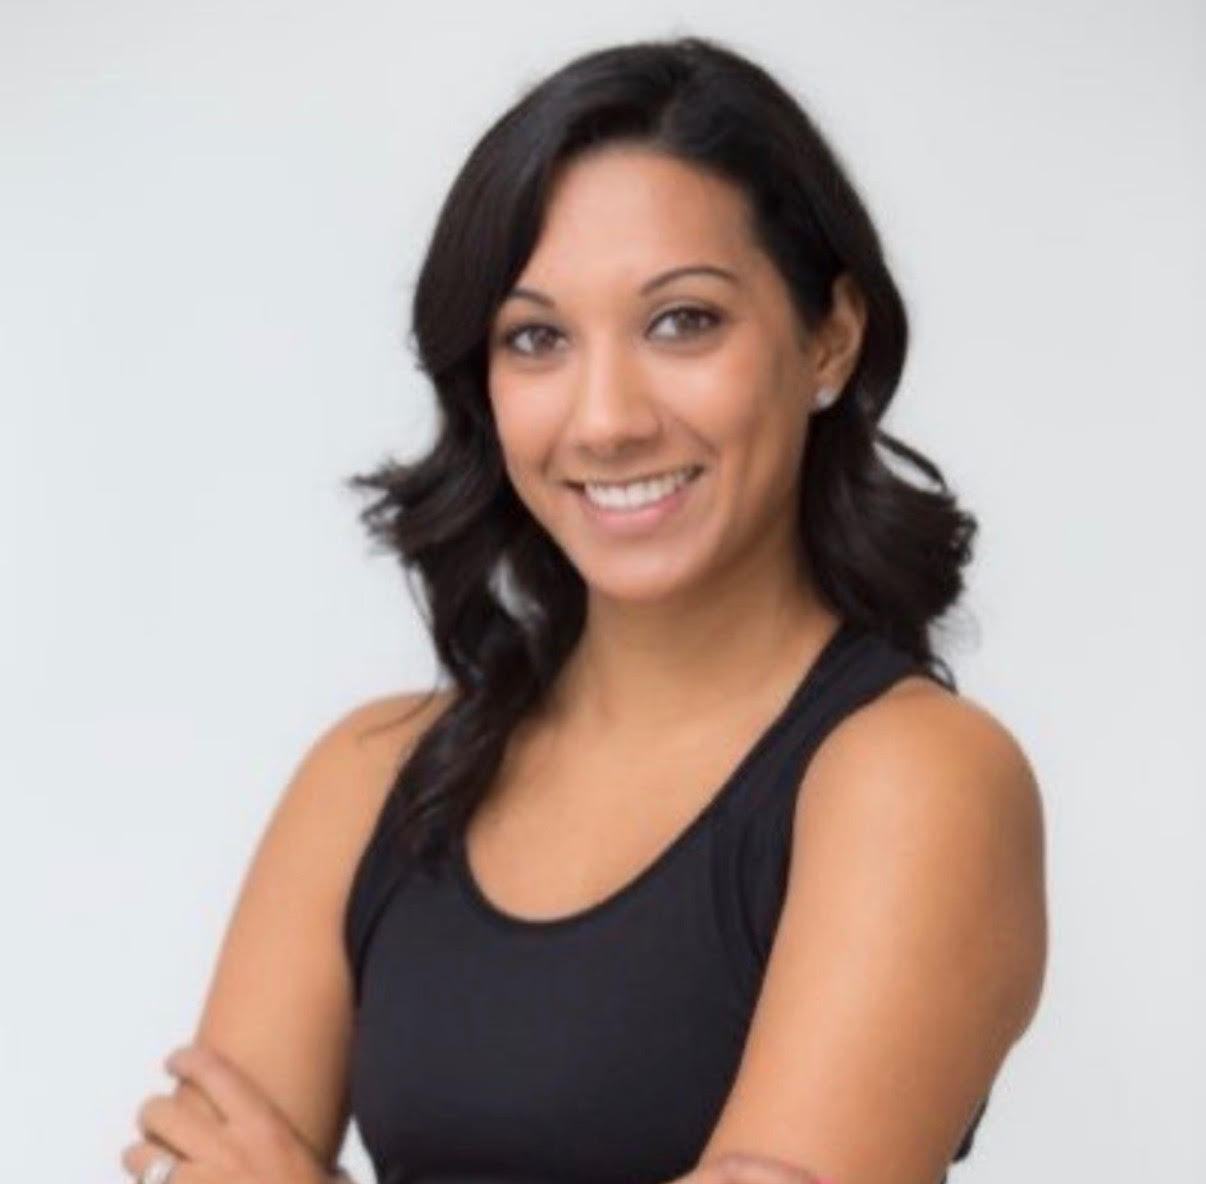
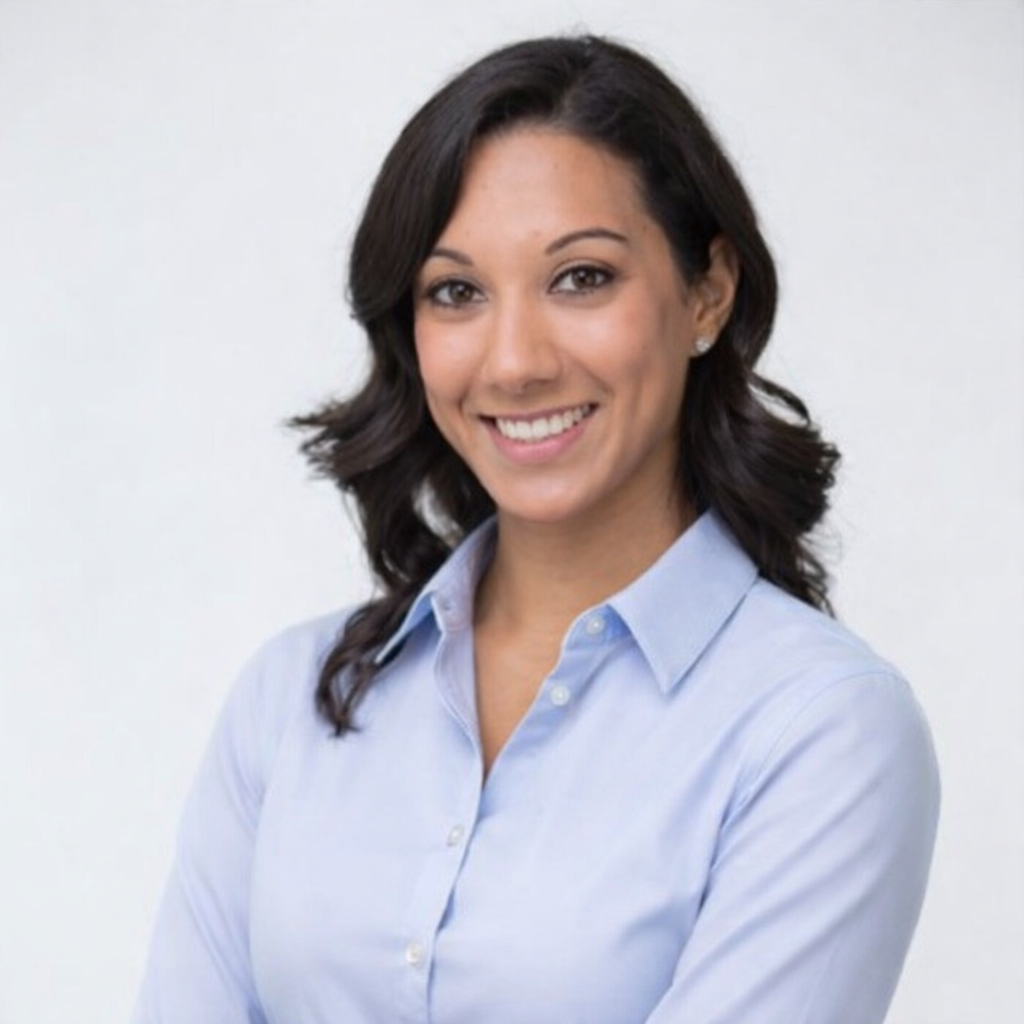
Update Alyssa headshot with new photo

diff --git a/app/about/page.tsx b/app/about/page.tsx
@@ -29,7 +29,7 @@ const founders = [
   {
     name: "Alyssa Provitt",
     title: "Co-Founder",
-    photo: "/alyssa-headshot.jpg",
+    photo: "/alyssa-headshot.png",
     bio: [
       <>10+ years in CX and operations leadership at high-growth DTC brands. Built scalable support workflows, led cross-functional teams, and managed end-to-end operational transformations. Deep expertise in Gorgias, Zendesk, and the knowledge base systems that power modern CX.</>,
       <>Her approach has always been systems-first - build repeatable processes that scale without adding complexity. That same thinking applies directly to AI transition: you do not just turn on an AI agent. You design the system it operates within - what it can access, when it escalates, how you measure its performance.</>,

diff --git a/app/page.tsx b/app/page.tsx
@@ -90,7 +90,7 @@ export default function HomePage() {
               </div>
               <div className="text-center">
                 <div className="w-40 h-48 rounded-lg overflow-hidden border border-gray-200 mb-3">
-                  <Image src="/alyssa-headshot.jpg" alt="Alyssa Provitt" width={160} height={192} className="w-full h-full object-cover" />
+                  <Image src="/alyssa-headshot.png" alt="Alyssa Provitt" width={160} height={192} className="w-full h-full object-cover" />
                 </div>
                 <p className="text-sm font-semibold text-navy">Alyssa Provitt</p>
               </div>
